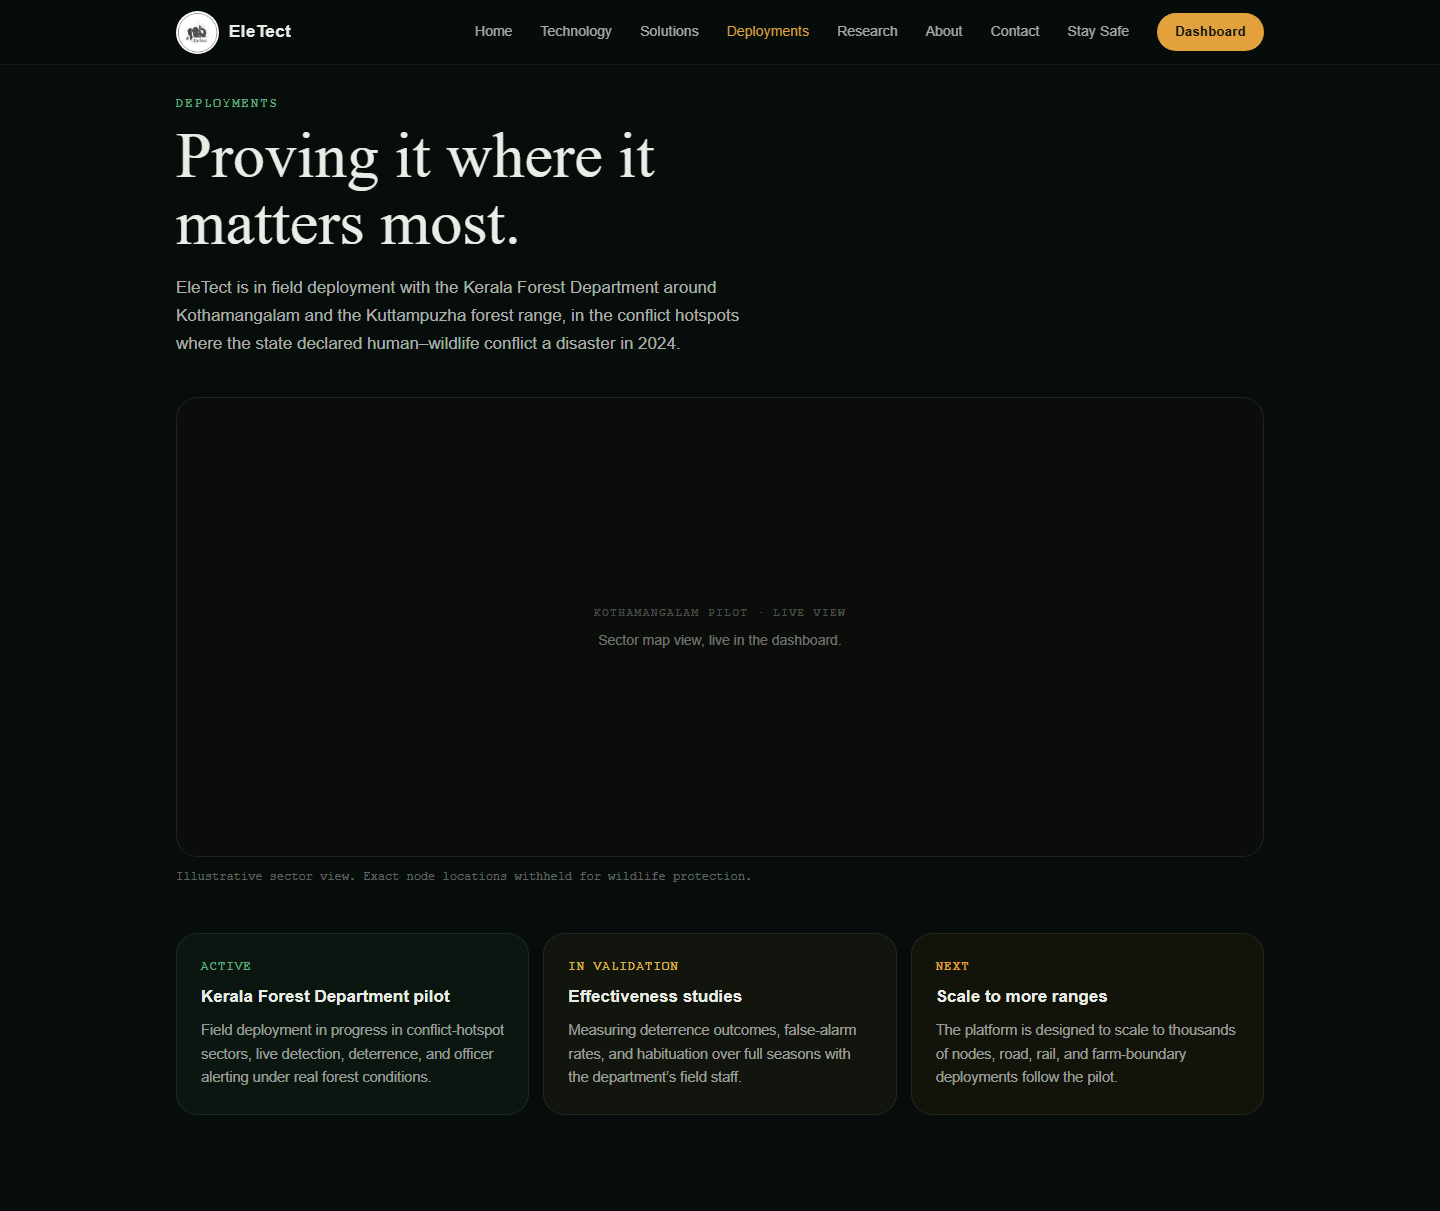
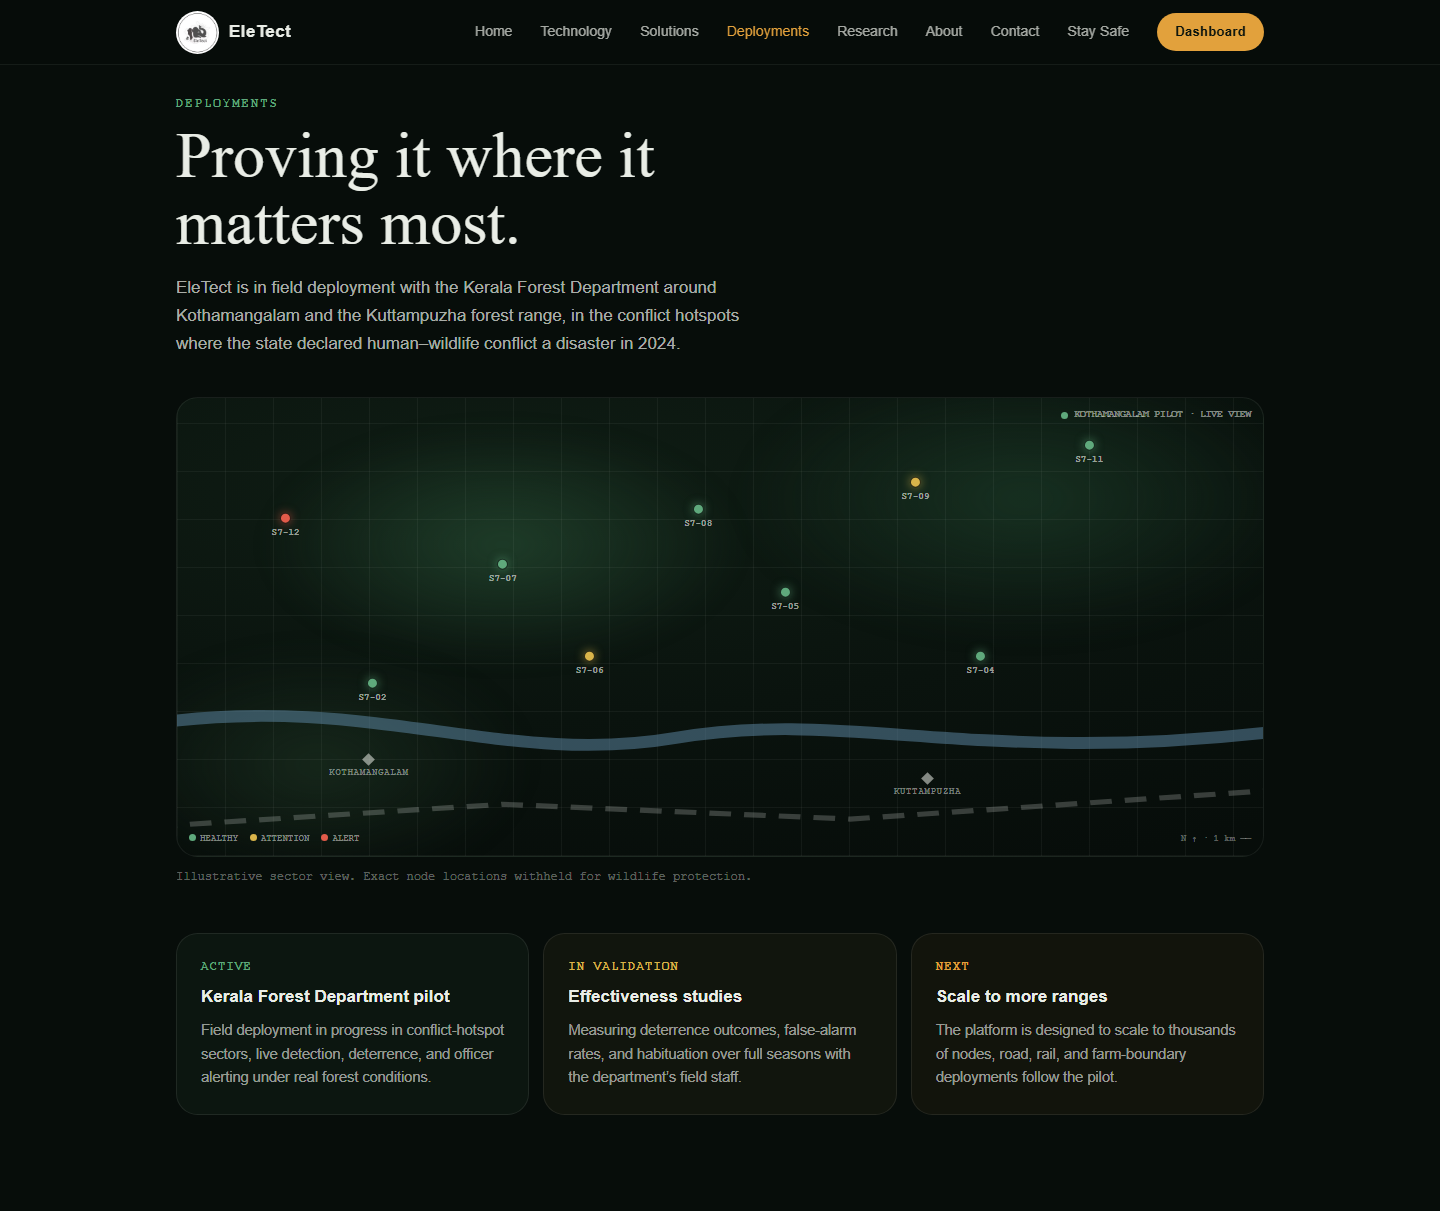
feat(web): add sector-map illustration to Solutions and Deployments
Replace the text-only placeholder on both public pages with a static
sector-map graphic matching the design reference: status dots for
S7-02 through S7-12 (healthy/attention/alert), the Kothamangalam and
Kuttampuzha labels either side of a river divider, a legend, and a
north-arrow/scale marker. All coordinates are fixed placeholders with
no backend dependency, consistent with the design's own caption that
exact node locations are withheld for wildlife protection.

Also extend the QA screenshot script to accept page slugs as
arguments so a subset of pages can be re-captured without rerunning
the full suite, and re-shoot Solutions and Deployments with the new
illustration in place.

diff --git a/web/frontend/src/components/SectorMapIllustration.tsx b/web/frontend/src/components/SectorMapIllustration.tsx
@@ -1,0 +1,134 @@
+type NodeStatus = 'healthy' | 'attention' | 'alert'
+
+interface SectorNode {
+  id: string
+  left: string
+  top: string
+  status: NodeStatus
+}
+
+const nodes: SectorNode[] = [
+  { id: 'S7-02', left: '18%', top: '64%', status: 'healthy' },
+  { id: 'S7-04', left: '74%', top: '58%', status: 'healthy' },
+  { id: 'S7-05', left: '56%', top: '44%', status: 'healthy' },
+  { id: 'S7-06', left: '38%', top: '58%', status: 'attention' },
+  { id: 'S7-07', left: '30%', top: '38%', status: 'healthy' },
+  { id: 'S7-08', left: '48%', top: '26%', status: 'healthy' },
+  { id: 'S7-09', left: '68%', top: '20%', status: 'attention' },
+  { id: 'S7-11', left: '84%', top: '12%', status: 'healthy' },
+  { id: 'S7-12', left: '10%', top: '28%', status: 'alert' },
+]
+
+const statusColor: Record<NodeStatus, string> = {
+  healthy: '#5fa97c',
+  attention: '#d9b44a',
+  alert: '#e25b4a',
+}
+
+export function SectorMapIllustration({ label }: { label: string }) {
+  return (
+    <div
+      className="border-brand-fg/8 relative h-full w-full overflow-hidden rounded-2xl border"
+      style={{
+        background: 'radial-gradient(120% 90% at 30% 20%, #0F1D14 0%, #0A130E 55%, #070D0A 100%)',
+      }}
+    >
+      <div
+        className="absolute rounded-full blur-md"
+        style={{
+          left: '8%',
+          top: '6%',
+          width: '44%',
+          height: '52%',
+          background: 'radial-gradient(closest-side, rgba(47,94,63,0.5), rgba(47,94,63,0))',
+        }}
+      />
+      <div
+        className="absolute rounded-full blur-lg"
+        style={{
+          left: '52%',
+          top: '-8%',
+          width: '52%',
+          height: '60%',
+          background: 'radial-gradient(closest-side, rgba(38,82,55,0.45), rgba(38,82,55,0))',
+        }}
+      />
+      <div
+        className="absolute rounded-full blur-lg"
+        style={{
+          left: '-6%',
+          top: '55%',
+          width: '38%',
+          height: '50%',
+          background: 'radial-gradient(closest-side, rgba(43,74,50,0.4), rgba(43,74,50,0))',
+        }}
+      />
+      <div
+        className="absolute inset-0"
+        style={{
+          backgroundImage:
+            'repeating-linear-gradient(0deg, rgba(233,237,230,0.05) 0px, rgba(233,237,230,0.05) 1px, transparent 1px, transparent 48px), repeating-linear-gradient(90deg, rgba(233,237,230,0.05) 0px, rgba(233,237,230,0.05) 1px, transparent 1px, transparent 48px)',
+        }}
+      />
+
+      <svg viewBox="0 0 100 62" preserveAspectRatio="none" className="absolute inset-0 h-full w-full">
+        <path
+          d="M -2 44 C 18 40, 30 50, 46 46 C 62 42, 74 50, 102 45"
+          fill="none"
+          stroke="rgba(96,140,170,0.5)"
+          strokeWidth="1.6"
+        />
+        <path
+          d="M -2 58 L 30 55 L 62 57 L 102 53"
+          fill="none"
+          stroke="rgba(233,237,230,0.22)"
+          strokeWidth="0.7"
+          strokeDasharray="2 1.2"
+        />
+      </svg>
+
+      <div className="absolute flex flex-col items-center gap-0.75" style={{ left: '14%', top: '78%' }}>
+        <div className="bg-brand-fg/55 h-2.25 w-2.25 rotate-45" />
+        <span className="text-brand-fg/50 font-mono text-[9px] tracking-[0.08em]">KOTHAMANGALAM</span>
+      </div>
+      <div className="absolute flex flex-col items-center gap-0.75" style={{ left: '66%', top: '82%' }}>
+        <div className="bg-brand-fg/55 h-2.25 w-2.25 rotate-45" />
+        <span className="text-brand-fg/50 font-mono text-[9px] tracking-[0.08em]">KUTTAMPUZHA</span>
+      </div>
+
+      {nodes.map((n) => (
+        <div
+          key={n.id}
+          className="absolute flex -translate-x-1/2 -translate-y-1/2 flex-col items-center gap-0.75"
+          style={{ left: n.left, top: n.top }}
+        >
+          <div
+            className="h-2.75 w-2.75 rounded-full border-[1.5px] border-[#070D0Acc]"
+            style={{ background: statusColor[n.status], boxShadow: `0 0 10px ${statusColor[n.status]}99` }}
+          />
+          <span className="text-brand-fg/65 font-mono text-[8.5px] font-semibold tracking-[0.06em]">{n.id}</span>
+        </div>
+      ))}
+
+      <div className="text-brand-fg/55 absolute top-2.5 right-3 flex items-center gap-1.5 font-mono text-[9.5px] font-semibold">
+        <span className="bg-brand-green inline-block h-1.75 w-1.75 rounded-full" />
+        {label}
+      </div>
+      <div className="text-brand-fg/40 absolute right-3 bottom-2.5 font-mono text-[9px]">N ↑ · 1 km ——</div>
+      <div className="text-brand-fg/55 absolute bottom-2.5 left-3 flex flex-wrap gap-3 font-mono text-[9px] font-medium">
+        <span>
+          <span className="bg-brand-green mr-1 inline-block h-1.75 w-1.75 rounded-full" />
+          HEALTHY
+        </span>
+        <span>
+          <span className="bg-brand-yellow mr-1 inline-block h-1.75 w-1.75 rounded-full" />
+          ATTENTION
+        </span>
+        <span>
+          <span className="bg-brand-red mr-1 inline-block h-1.75 w-1.75 rounded-full" />
+          ALERT
+        </span>
+      </div>
+    </div>
+  )
+}

diff --git a/web/frontend/src/pages/public/Solutions.tsx b/web/frontend/src/pages/public/Solutions.tsx
@@ -1,3 +1,4 @@
+import { SectorMapIllustration } from '@/components/SectorMapIllustration'
 import { corridorSteps, otherWildlife, solutionsData } from '@/lib/content'
 
 export function Solutions() {
@@ -90,16 +91,8 @@ export function Solutions() {
             corridor back to the forest instead of just being scared in place.
           </p>
           <div className="grid grid-cols-[repeat(auto-fit,minmax(min(460px,100%),1fr))] items-start gap-5">
-            <div className="border-brand-fg/10 relative h-[clamp(280px,36vw,380px)] overflow-hidden rounded-2xl border bg-[#0B0D0B]">
-              <div className="absolute inset-0 grid place-items-center">
-                <div className="text-center">
-                  <p className="text-brand-fg/30 font-mono text-[11px] tracking-[0.14em]">
-                    COORDINATED CORRIDOR · LIVE DEMO
-                  </p>
-                  <p className="text-brand-fg/45 mt-2 font-sans text-sm">Sector map view, live in the dashboard.</p>
-                </div>
-              </div>
-              <div className="via-brand-green/25 absolute inset-x-0 top-1/2 h-px bg-linear-to-r from-transparent to-transparent" />
+            <div className="h-[clamp(280px,36vw,380px)]">
+              <SectorMapIllustration label="COORDINATED CORRIDOR · LIVE DEMO" />
             </div>
             <div className="flex flex-col gap-2.5">
               {corridorSteps.map((c) => (
@@ -113,6 +106,9 @@ export function Solutions() {
               ))}
             </div>
           </div>
+          <p className="text-brand-fg/40 mt-4 font-mono text-xs">
+            Illustrative sector view. Exact node locations withheld for wildlife protection.
+          </p>
         </div>
       </section>
     </>

diff --git a/web/frontend/src/pages/public/Deployments.tsx b/web/frontend/src/pages/public/Deployments.tsx
@@ -1,3 +1,4 @@
+import { SectorMapIllustration } from '@/components/SectorMapIllustration'
 import { deployPhases } from '@/lib/content'
 
 export function Deployments() {
@@ -12,15 +13,8 @@ export function Deployments() {
         forest range, in the conflict hotspots where the state declared human–wildlife conflict a disaster in 2024.
       </p>
 
-      <div className="border-brand-fg/10 relative h-[clamp(320px,50vw,460px)] overflow-hidden rounded-2xl border bg-[#0B0D0B]">
-        <div className="absolute inset-0 grid place-items-center">
-          <div className="text-center">
-            <p className="text-brand-fg/30 font-mono text-[11px] tracking-[0.14em]">
-              KOTHAMANGALAM PILOT · LIVE VIEW
-            </p>
-            <p className="text-brand-fg/45 mt-2 font-sans text-sm">Sector map view, live in the dashboard.</p>
-          </div>
-        </div>
+      <div className="h-[clamp(320px,50vw,460px)]">
+        <SectorMapIllustration label="KOTHAMANGALAM PILOT · LIVE VIEW" />
       </div>
       <p className="text-brand-fg/40 mt-3 mb-12 font-mono text-xs">
         Illustrative sector view. Exact node locations withheld for wildlife protection.
